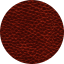
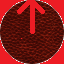
Made player look at mouse cursor

diff --git a/SuperTriangleShooterGame/Game1.cs b/SuperTriangleShooterGame/Game1.cs
@@ -17,6 +17,9 @@ namespace SuperTriangleShooterGame
         Vector2 ballPosition;
         float ballSpeed;
 
+        Vector2 pointingVector;
+        float playerRotation;
+
         public Game1()
         {
             graphics = new GraphicsDeviceManager(this);
@@ -77,21 +80,24 @@ namespace SuperTriangleShooterGame
                 ballPosition.Y -= ballSpeed * (float)gameTime.ElapsedGameTime.TotalSeconds;
             }
 
-            if (kstate.IsKeyDown(Keys.Up))
+            if (kstate.IsKeyDown(Keys.W))
                 ballPosition.Y -= ballSpeed * (float)gameTime.ElapsedGameTime.TotalSeconds;
 
-            if (kstate.IsKeyDown(Keys.Down))
+            if (kstate.IsKeyDown(Keys.S))
                 ballPosition.Y += ballSpeed * (float)gameTime.ElapsedGameTime.TotalSeconds;
 
-            if (kstate.IsKeyDown(Keys.Left))
+            if (kstate.IsKeyDown(Keys.A))
                 ballPosition.X -= ballSpeed * (float)gameTime.ElapsedGameTime.TotalSeconds;
 
-            if (kstate.IsKeyDown(Keys.Right))
+            if (kstate.IsKeyDown(Keys.D))
                 ballPosition.X += ballSpeed * (float)gameTime.ElapsedGameTime.TotalSeconds;
 
             ballPosition.X = Math.Min(Math.Max(ballTexture.Width / 2, ballPosition.X), graphics.PreferredBackBufferWidth - ballTexture.Width / 2);
             ballPosition.Y = Math.Min(Math.Max(ballTexture.Height / 2, ballPosition.Y), graphics.PreferredBackBufferHeight - ballTexture.Height / 2);
 
+
+            pointingVector = new Vector2(mstate.Position.X - ballPosition.X, mstate.Position.Y - ballPosition.Y);
+            playerRotation = (float) Math.Atan2(pointingVector.X, -pointingVector.Y);
 
             // TODO: Add your update logic here
 
@@ -106,7 +112,7 @@ namespace SuperTriangleShooterGame
         {
             GraphicsDevice.Clear(Color.CornflowerBlue);
             spriteBatch.Begin();
-            spriteBatch.Draw(ballTexture, ballPosition, null, Color.White, 0f, new Vector2(ballTexture.Width / 2, ballTexture.Height / 2), Vector2.One, SpriteEffects.None, 0f);
+            spriteBatch.Draw(ballTexture, ballPosition, null, Color.White, playerRotation, new Vector2(ballTexture.Width / 2, ballTexture.Height / 2), Vector2.One, SpriteEffects.None, 0f);
             spriteBatch.End();
 
             base.Draw(gameTime);

diff --git a/SuperTriangleShooterGame/Player.cs b/SuperTriangleShooterGame/Player.cs
@@ -1,8 +1,7 @@
 using System;
-using System.Collections.Generic;
-using System.Linq;
-using System.Text;
-using System.Threading.Tasks;
+using Microsoft.Xna.Framework;
+using Microsoft.Xna.Framework.Graphics;
+using Microsoft.Xna.Framework.Input;
 
 namespace SuperTriangleShooterGame
 {
